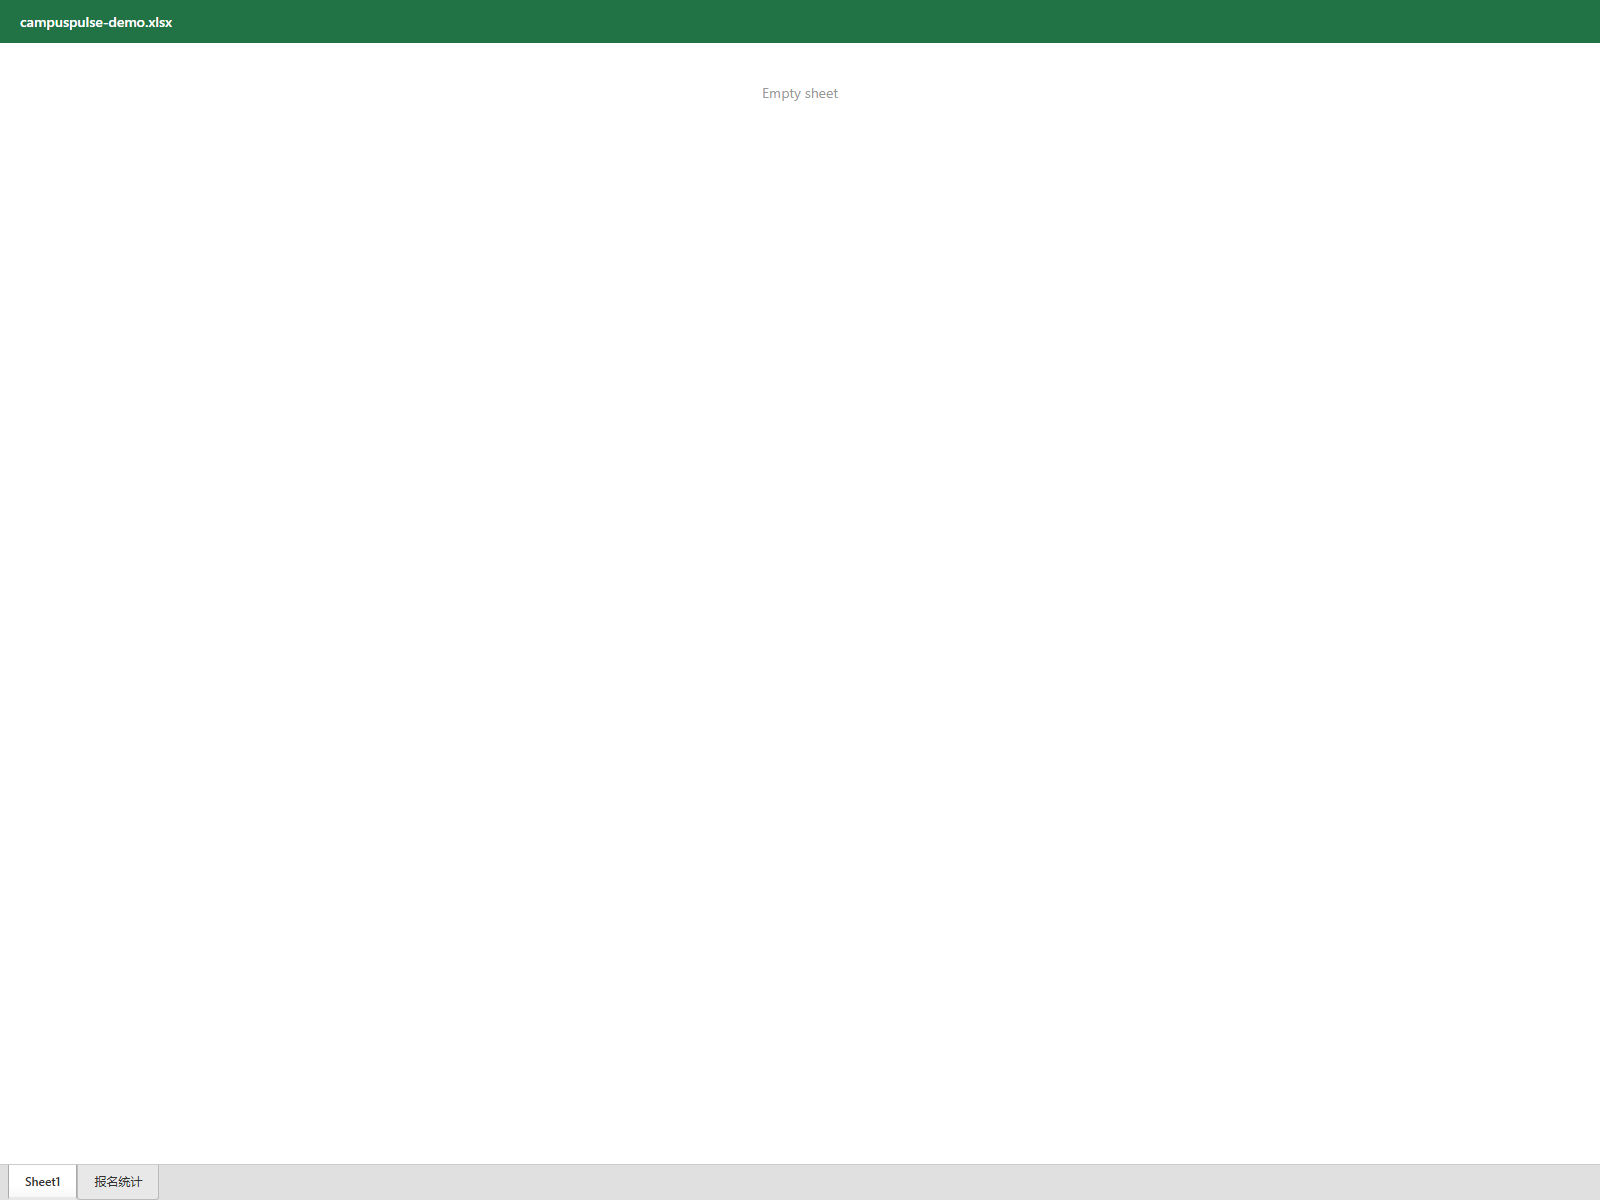
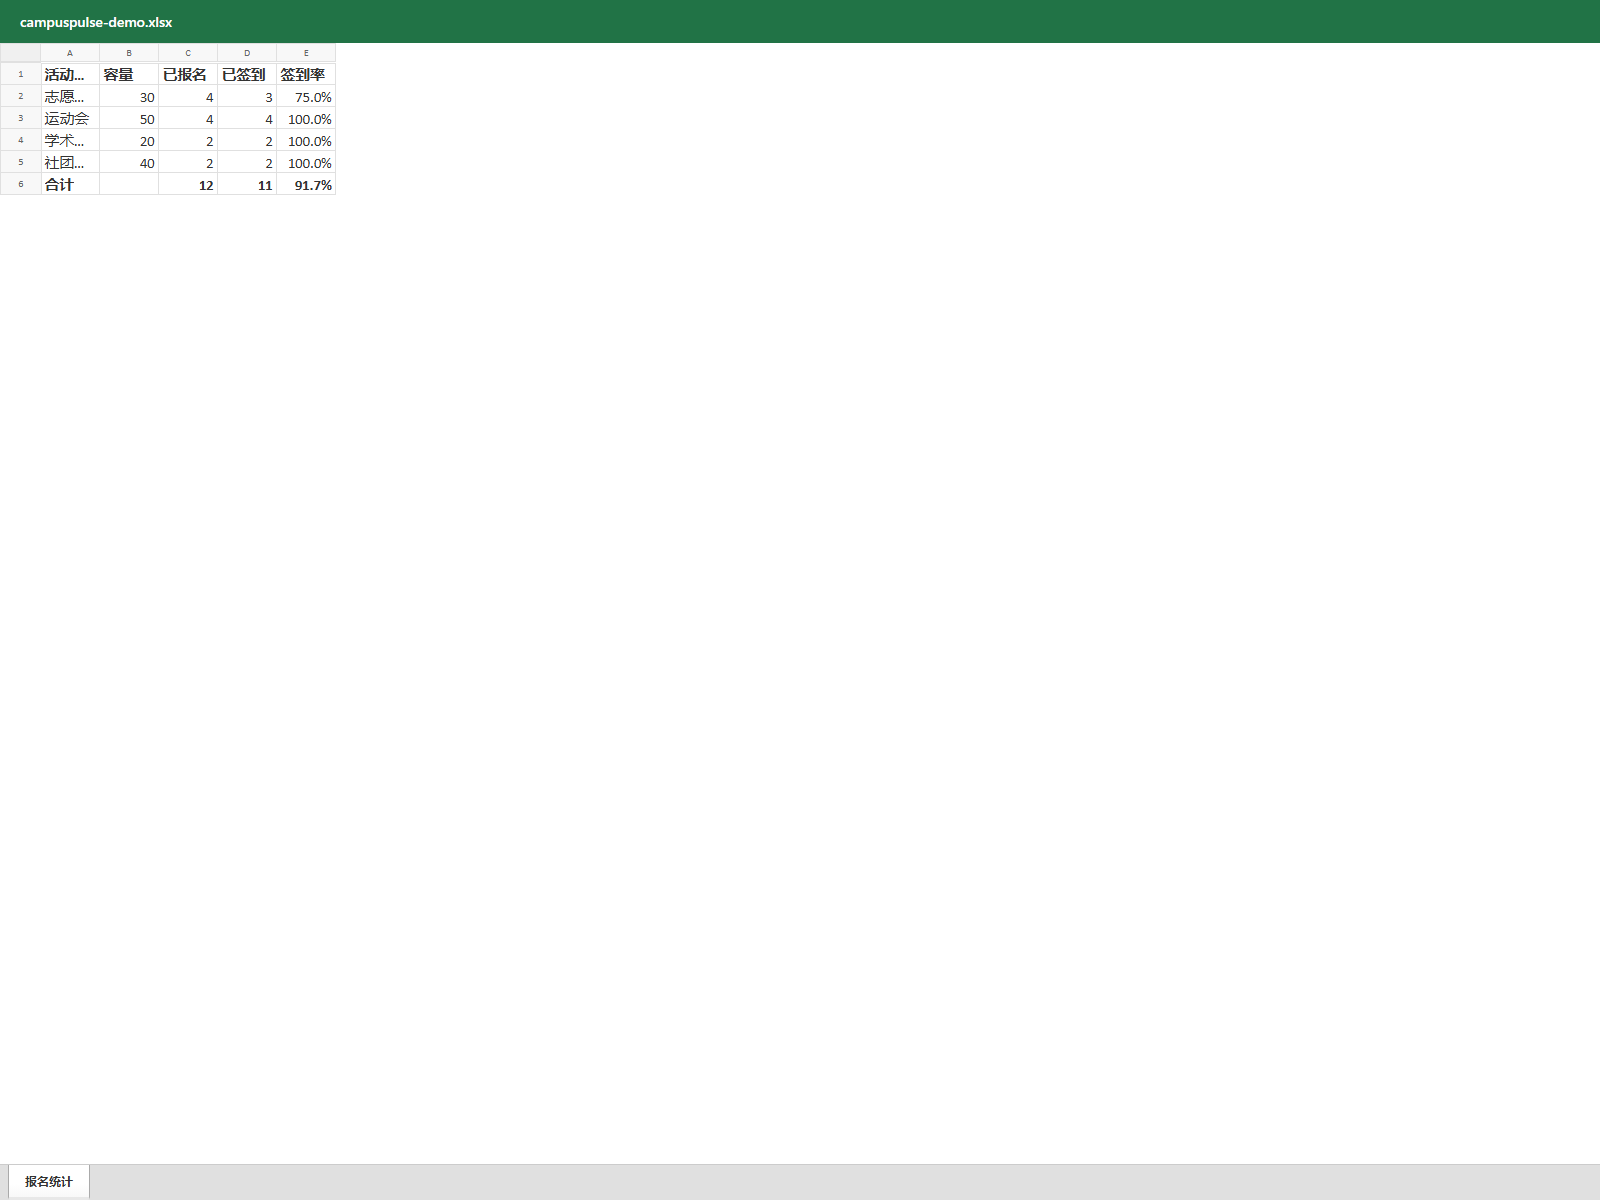
docs: switch Word showcases to English thesis format, fix diagrams and Excel
- Regenerate Word fill showcase as English thesis with proper title size (16pt) and structured sections
- Regenerate from-scratch thesis as all-English 4-chapter document
- Remove PPT section from README and display/
- Fix Excel render to show data sheet instead of empty Sheet1
- Fix diagram generator: white background, monochrome, support attributes field
- Regenerate class/sequence/usecase diagrams with light theme

Changed region(s): [[0.0, 0.0308, 0.2188, 0.1542], [0.0312, 0.9558, 0.0938, 1.0]]

diff --git a/scripts/generate_diagram_assets.py b/scripts/generate_diagram_assets.py
@@ -441,7 +441,7 @@ def build_plantuml_use_case(diagram: dict) -> str:
     associations = require_list(diagram, "associations", context)
     actor_alias = {}
     case_alias = {}
-    lines = ["@startuml", "skinparam backgroundColor transparent", "left to right direction"]
+    lines = ["@startuml", "skinparam backgroundColor white", "left to right direction"]
     if diagram.get("title"):
         lines.append(f"title {plain_text(diagram['title'])}")
     for actor in actors:
@@ -475,7 +475,7 @@ def build_plantuml_class(diagram: dict) -> str:
     classes = require_list(diagram, "classes", context)
     relations = require_list(diagram, "relations", context)
     alias_map = {}
-    lines = ["@startuml", "skinparam backgroundColor transparent"]
+    lines = ["@startuml", "skinparam backgroundColor white", "skinparam monochrome true"]
     if diagram.get("title"):
         lines.append(f"title {plain_text(diagram['title'])}")
     for item in classes:
@@ -484,7 +484,7 @@ def build_plantuml_class(diagram: dict) -> str:
         alias_map[item["name"]] = alias
         class_type = item.get("type", "class")
         lines.append(f'{class_type} "{escape_label(item["name"])}" as {alias} {{')
-        for field in item.get("fields", []):
+        for field in item.get("fields", []) + item.get("attributes", []):
             lines.append(f"  {field}")
         for method in item.get("methods", []):
             lines.append(f"  {method}")
@@ -512,7 +512,7 @@ def build_plantuml_sequence(diagram: dict) -> str:
     participants = require_list(diagram, "participants", context)
     messages = require_list(diagram, "messages", context)
     alias_map = {}
-    lines = ["@startuml", "skinparam backgroundColor transparent"]
+    lines = ["@startuml", "skinparam backgroundColor white"]
     if diagram.get("title"):
         lines.append(f"title {plain_text(diagram['title'])}")
     for participant in participants:
@@ -534,7 +534,7 @@ def build_plantuml_sequence(diagram: dict) -> str:
 def build_plantuml_activity(diagram: dict) -> str:
     context = f"diagram '{diagram.get('name', '<unnamed>')}' ({diagram.get('kind')})"
     actions = require_list(diagram, "actions", context)
-    lines = ["@startuml", "skinparam backgroundColor transparent"]
+    lines = ["@startuml", "skinparam backgroundColor white"]
     if diagram.get("title"):
         lines.append(f"title {plain_text(diagram['title'])}")
     lines.append("start")
@@ -550,7 +550,7 @@ def build_plantuml_state(diagram: dict) -> str:
     states = require_list(diagram, "states", context)
     transitions = require_list(diagram, "transitions", context)
     alias_map = {}
-    lines = ["@startuml", "skinparam backgroundColor transparent"]
+    lines = ["@startuml", "skinparam backgroundColor white"]
     if diagram.get("title"):
         lines.append(f"title {plain_text(diagram['title'])}")
     for state in states:
@@ -578,7 +578,7 @@ def build_plantuml_component(diagram: dict) -> str:
     components = require_list(diagram, "components", context)
     dependencies = require_list(diagram, "dependencies", context)
     alias_map = {}
-    lines = ["@startuml", "skinparam backgroundColor transparent"]
+    lines = ["@startuml", "skinparam backgroundColor white"]
     if diagram.get("title"):
         lines.append(f"title {plain_text(diagram['title'])}")
     for component in components:
@@ -606,7 +606,7 @@ def build_plantuml_deployment(diagram: dict) -> str:
     nodes = require_list(diagram, "nodes", context)
     connections = require_list(diagram, "connections", context)
     alias_map = {}
-    lines = ["@startuml", "skinparam backgroundColor transparent"]
+    lines = ["@startuml", "skinparam backgroundColor white"]
     if diagram.get("title"):
         lines.append(f"title {plain_text(diagram['title'])}")
     for node in nodes:

diff --git a/README.en.md b/README.en.md
@@ -35,7 +35,7 @@ All assets are generated from one demo project: a Spring Boot + MySQL campus act
 
 | Before filling | After filling |
 | --- | --- |
-| <img src="display/word/render/before-01.png" alt="Report template before filling" width="360"> | <img src="display/word/render/filled-01.png" alt="Completed report page" width="360"> |
+| <img src="display/word/render/before-01.png" alt="Report template before filling" width="360"> | <img src="display/word/render/filled-en-1.png" alt="Completed report page" width="360"> |
 
 ## Image Module
 
@@ -118,13 +118,9 @@ python scripts/validate_office.py <file>.docx
 
 | Page 1 | Page 2 |
 |:---:|:---:|
-| ![filled-01](display/word/render/filled-01.png) | ![filled-02](display/word/render/filled-02.png) |
-| Page 3 | Page 4 |
-| ![filled-03](display/word/render/filled-03.png) | ![filled-04](display/word/render/filled-04.png) |
-| Page 5 | Page 6 |
-| ![filled-05](display/word/render/filled-05.png) | ![filled-06](display/word/render/filled-06.png) |
-| Page 7 | |
-| ![filled-07](display/word/render/filled-07.png) | |
+| ![filled-en-1](display/word/render/filled-en-1.png) | ![filled-en-2](display/word/render/filled-en-2.png) |
+| Page 3 | |
+| ![filled-en-3](display/word/render/filled-en-3.png) | |
 
 ### Word from scratch
 
@@ -132,26 +128,9 @@ Creates a graduation thesis from scratch with table of contents, body, figures, 
 
 | Page 1 | Page 2 |
 |:---:|:---:|
-| ![paper-01](display/document-from-scratch/render/paper-01.png) | ![paper-02](display/document-from-scratch/render/paper-02.png) |
+| ![thesis-en-1](display/document-from-scratch/render/thesis-en-1.png) | ![thesis-en-2](display/document-from-scratch/render/thesis-en-2.png) |
 | Page 3 | Page 4 |
-| ![paper-03](display/document-from-scratch/render/paper-03.png) | ![paper-04](display/document-from-scratch/render/paper-04.png) |
-| Page 5 | Page 6 |
-| ![paper-05](display/document-from-scratch/render/paper-05.png) | ![paper-06](display/document-from-scratch/render/paper-06.png) |
-| Page 7 | Page 8 |
-| ![paper-07](display/document-from-scratch/render/paper-07.png) | ![paper-08](display/document-from-scratch/render/paper-08.png) |
-
-### PPT creation
-
-Creates presentations via officecli with title, architecture, and data slides.
-
-```bash
-python scripts/office_engine.py --action create --format ppt ...
-```
-
-| | | |
-|:---:|:---:|:---:|
-| ![slide-1](display/ppt/render/slide-1.png) | ![slide-2](display/ppt/render/slide-2.png) | ![slide-3](display/ppt/render/slide-3.png) |
-| Title | Architecture | Data |
+| ![thesis-en-3](display/document-from-scratch/render/thesis-en-3.png) | ![thesis-en-4](display/document-from-scratch/render/thesis-en-4.png) |
 
 ### Excel creation
 

diff --git a/display/README.md b/display/README.md
@@ -8,7 +8,6 @@
 | `images/ai/` | `scripts/validate_prompt.py` 后执行 `scripts/generate_images.py --config <prompt-config.json>` | 终端命令（Maven 构建、SQL 查询、网络验证、Git 提交、测试输出）、IDE 开发（VS Code 源码、调试断点）、浏览器 DevTools 和 nature-figure 科研图形摘要。它们是文档视觉素材，不替代真实运行证据。 |
 | `images/diagram/` | `scripts/generate_diagram_assets.py --config <diagram-plan.json> --output-dir <dir>` | 系统架构、核心 ER 关系、报名业务流程、类图、时序图、用例图和部署拓扑的确定性渲染。 |
 | `images/chart/` | `integrations/nature-figure/scripts/plot_templates.py <template> ...` | 基于 MySQL seed 数据的指标图，以及 nature-figure 出版级模板（火山图、ROC 曲线、点图、边缘分布图）。 |
-| `word/` | `officecli view <file>.docx html --browser` 后逐页渲染 | `template.docx` 是填写前模板，`filled.docx` 是使用真实项目证据填写后的实验报告；`render/` 保留逐页 PNG。 |
-| `document-from-scratch/` | `officecli` 创建、校验和 HTML 渲染 | 从零创建的毕业设计论文及八页渲染复查图，内容与同一项目的数据模型、页面和测试结论一致。 |
-| `ppt/` | `officecli` 创建、编辑和 HTML 渲染 | 三页演示文稿（标题、架构、数据），`render/` 保留逐页 PNG。 |
+| `word/` | `officecli` 创建、校验和 HTML 渲染 | `filled-english.docx` 是使用真实项目证据填写的英文实验报告；`render/` 保留逐页 PNG。 |
+| `document-from-scratch/` | `officecli` 创建、校验和 HTML 渲染 | 从零创建的英文毕业设计论文（四章结构），内容与同一项目的数据模型、页面和测试结论一致。 |
 | `excel/` | `officecli` 创建、编辑和 HTML 渲染 | 带公式和样式的报名统计表，`render/` 保留 PNG。 |
